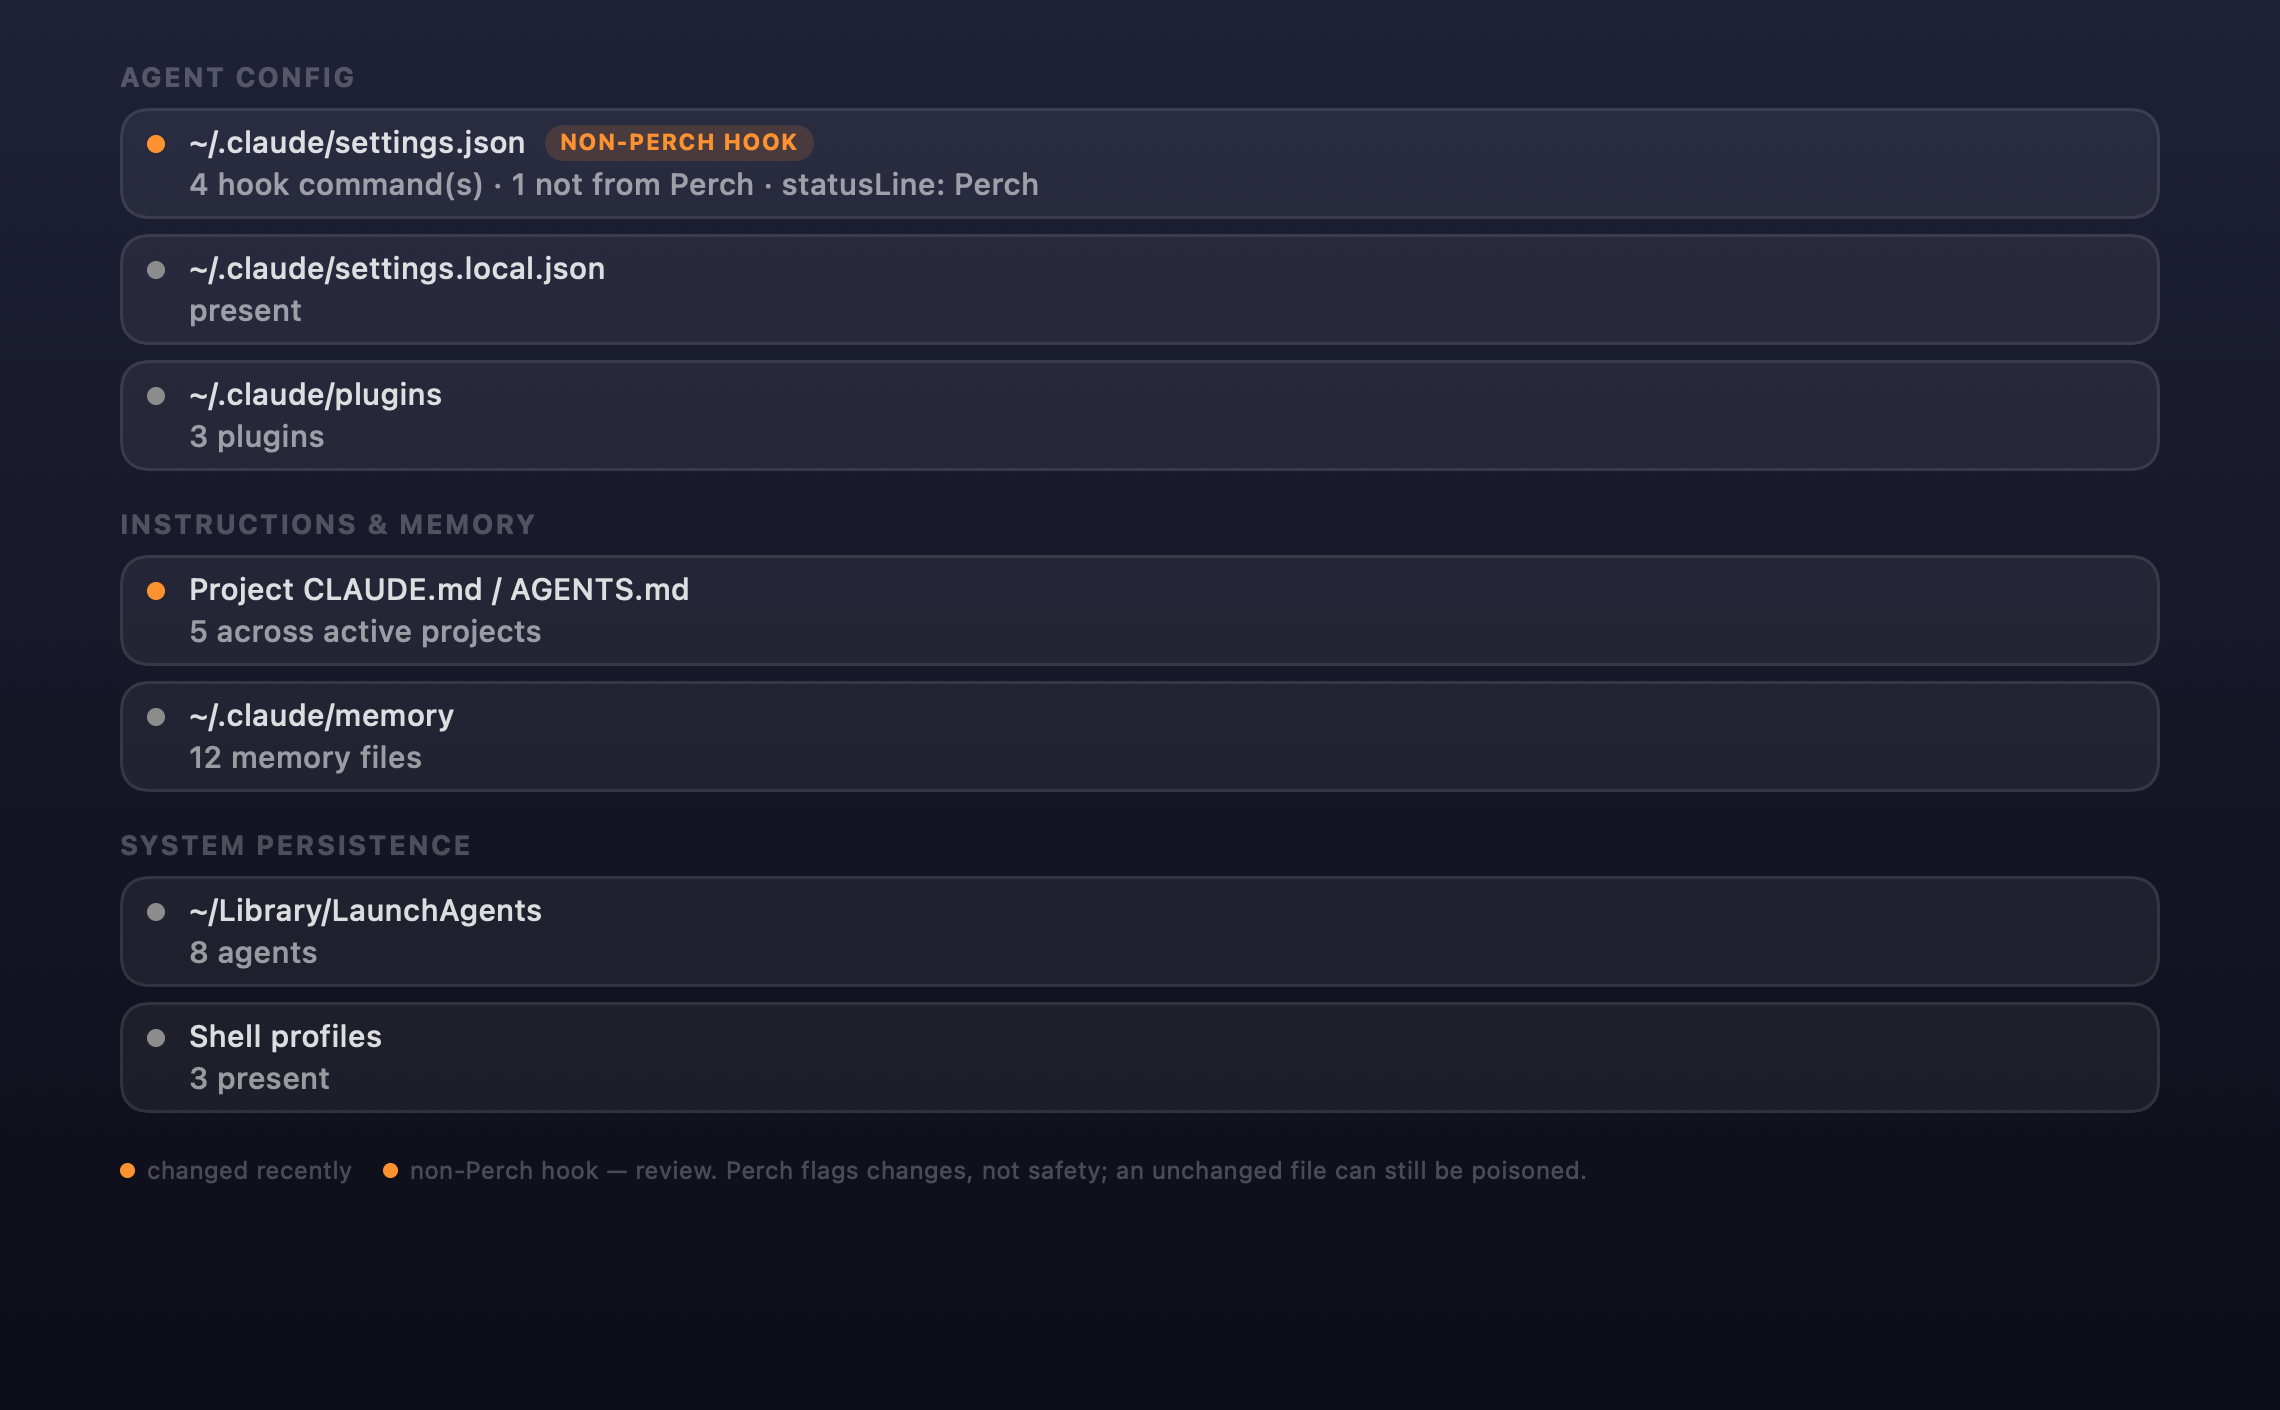
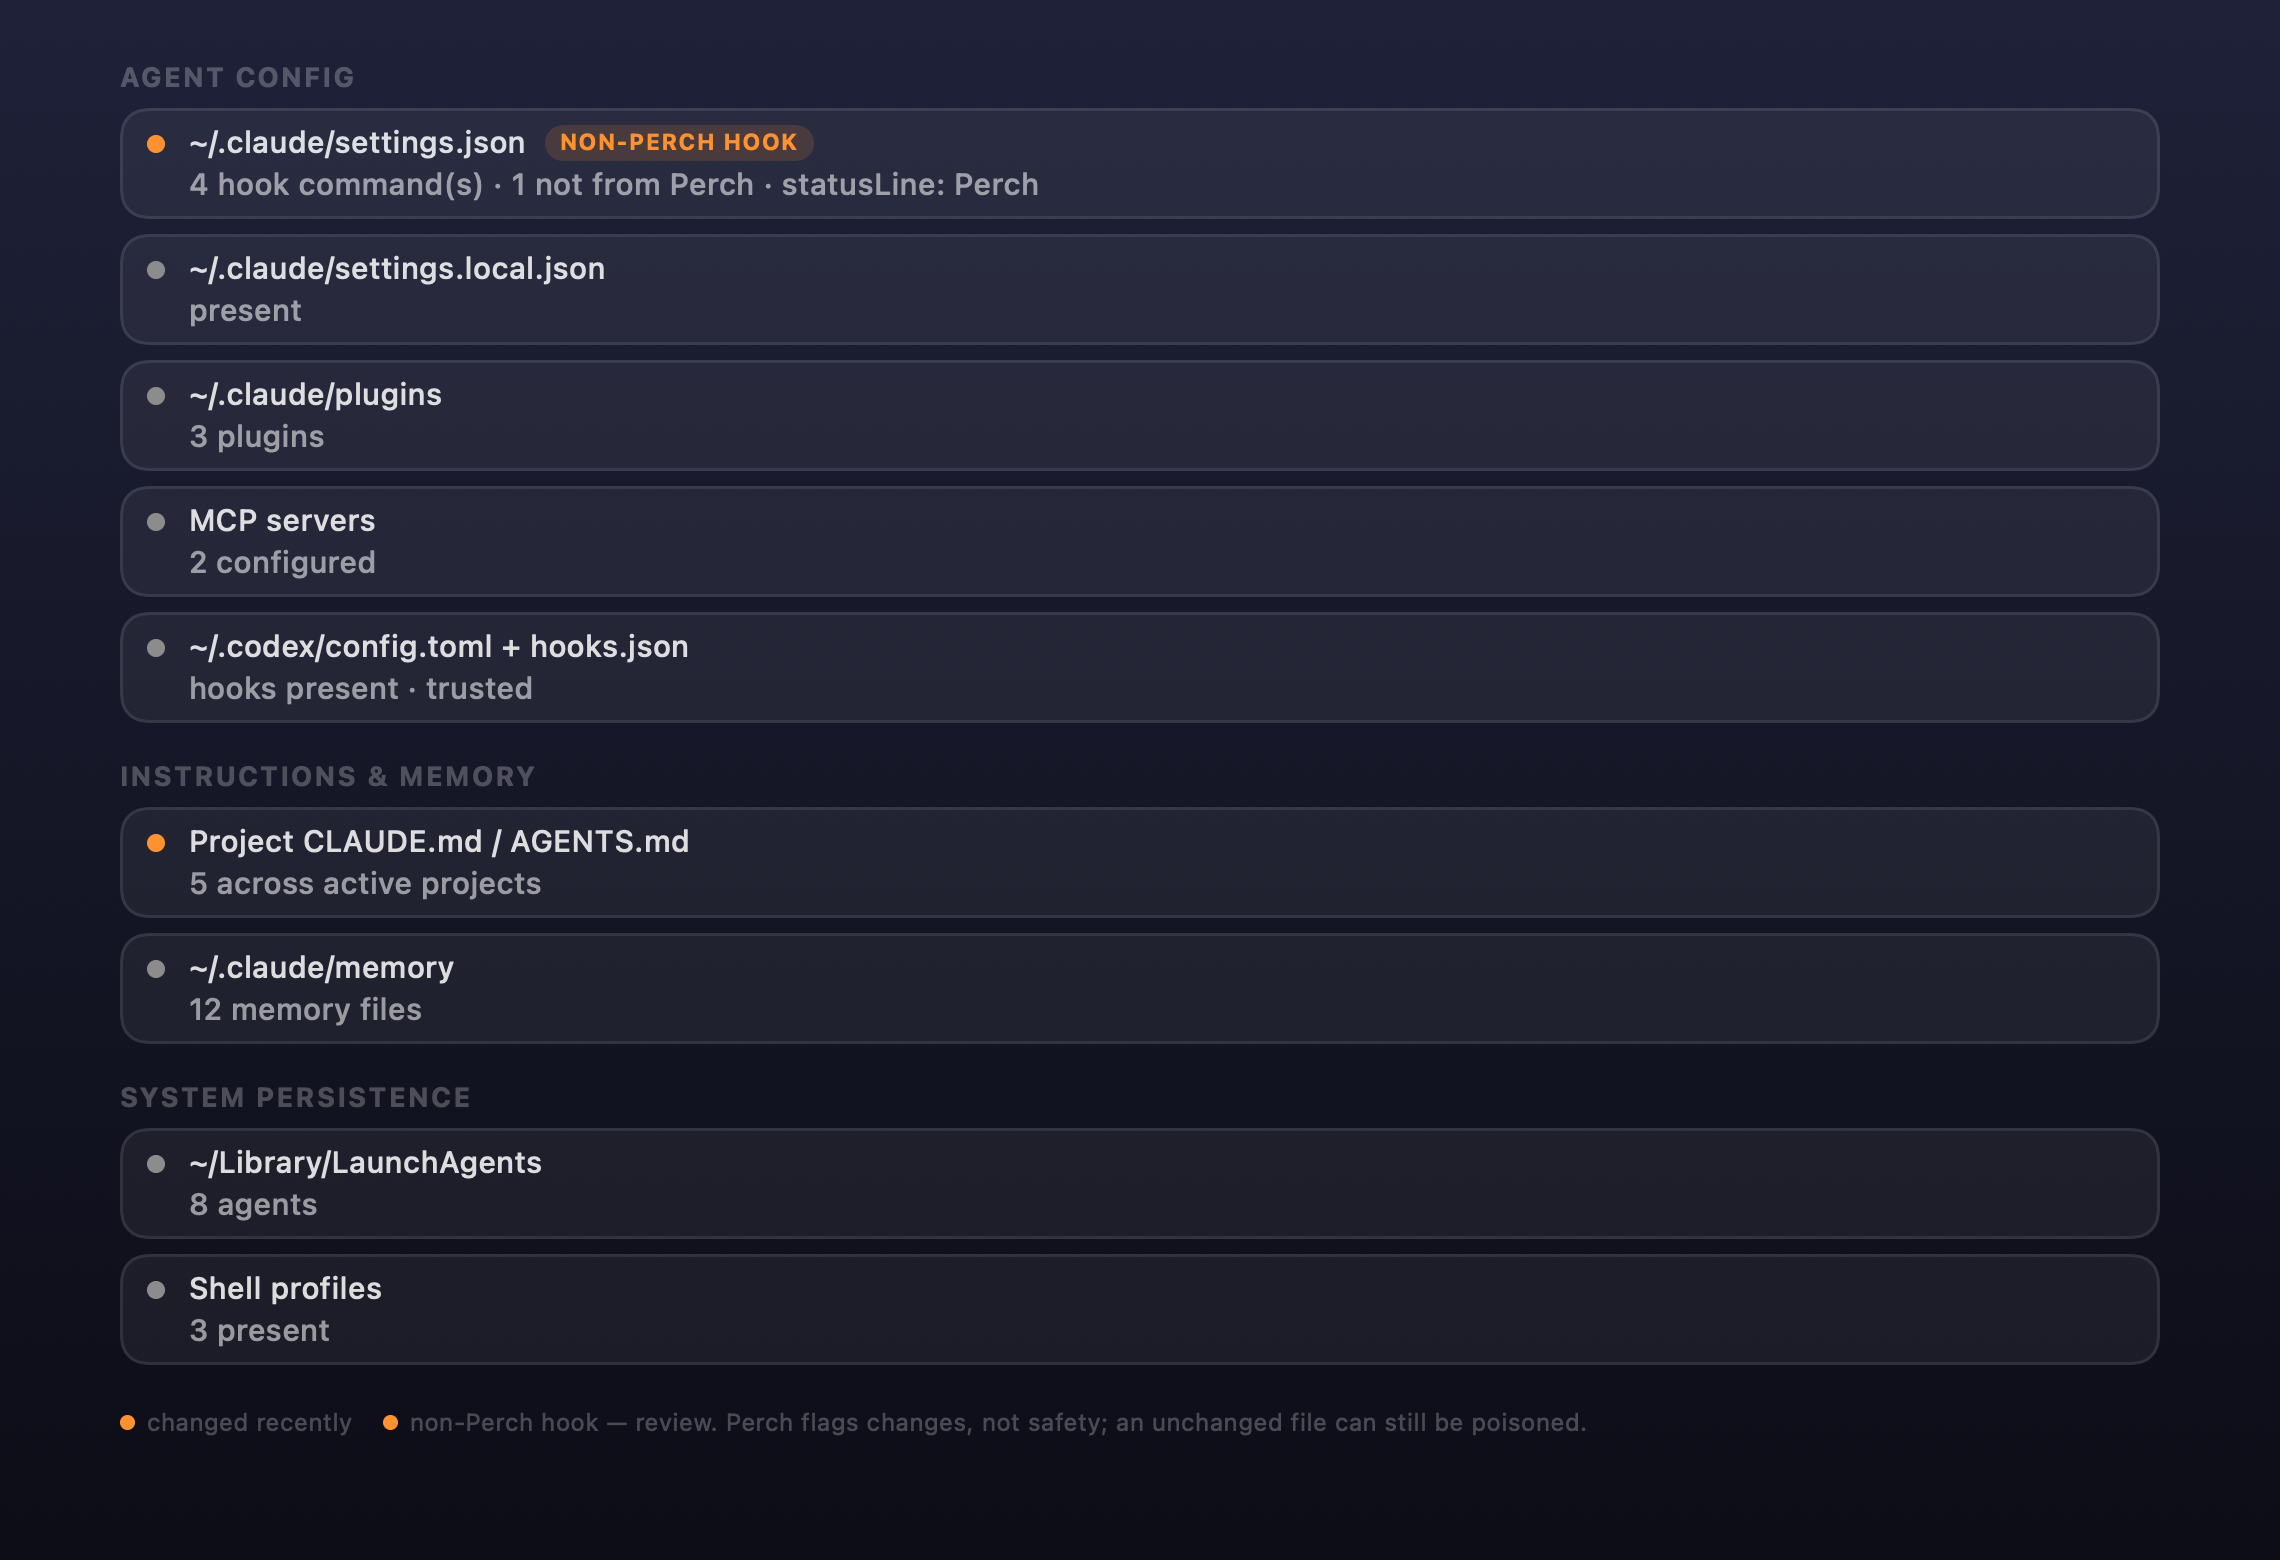
Add Insights showcase

diff --git a/Sources/Perch/UI/InsightsWindow.swift b/Sources/Perch/UI/InsightsWindow.swift
@@ -42,6 +42,7 @@ private struct InsightsTimelinePoint: Identifiable {
 
 struct InsightsView: View {
     @ObservedObject var model: InsightsModel
+    var renderStatic = false
 
     var body: some View {
         VStack(spacing: 0) {
@@ -75,18 +76,44 @@ struct InsightsView: View {
                     .controlSize(.small)
                     .accessibilityLabel("Loading Insights")
             }
-            Picker("Time range", selection: $model.selectedRange) {
-                ForEach(InsightsRange.allCases) { range in
-                    Text(range.rawValue)
-                        .tag(range)
-                        .accessibilityLabel(range.accessibilityLabel)
+            if renderStatic {
+                staticRangePicker
+            } else {
+                Picker("Time range", selection: $model.selectedRange) {
+                    ForEach(InsightsRange.allCases) { range in
+                        Text(range.rawValue)
+                            .tag(range)
+                            .accessibilityLabel(range.accessibilityLabel)
+                    }
                 }
+                .pickerStyle(.segmented)
+                .frame(width: 180)
             }
-            .pickerStyle(.segmented)
-            .frame(width: 180)
             Button("Refresh") { model.refresh() }
                 .disabled(model.state == .loading)
         }
+    }
+
+    /// ImageRenderer draws the AppKit-bridged segmented Picker as a missing-
+    /// view placeholder, so showcase renders draw this SwiftUI stand-in.
+    private var staticRangePicker: some View {
+        HStack(spacing: 2) {
+            ForEach(InsightsRange.allCases) { range in
+                Text(range.rawValue)
+                    .font(.system(size: 11, weight: .medium))
+                    .padding(.horizontal, 12)
+                    .padding(.vertical, 3)
+                    .background(
+                        RoundedRectangle(cornerRadius: 5, style: .continuous)
+                            .fill(range == model.selectedRange
+                                  ? Color.white.opacity(0.22)
+                                  : Color.clear))
+            }
+        }
+        .padding(2)
+        .background(
+            RoundedRectangle(cornerRadius: 7, style: .continuous)
+                .fill(Color.black.opacity(0.28)))
     }
 
     @ViewBuilder
@@ -94,22 +121,12 @@ struct InsightsView: View {
         if model.state == .unavailable {
             unavailableState
         } else if let snapshot = model.snapshot {
-            ScrollView {
-                VStack(alignment: .leading, spacing: 14) {
-                    summary(snapshot)
-                    timeline(snapshot)
-                    if snapshot.isEmpty {
-                        emptyState
-                    } else {
-                        findings(snapshot)
-                        HStack(alignment: .top, spacing: 14) {
-                            agents(snapshot)
-                            tools(snapshot)
-                        }
-                        sessions(snapshot)
-                    }
+            if renderStatic {
+                contentBody(snapshot)
+            } else {
+                ScrollView {
+                    contentBody(snapshot)
                 }
-                .padding(16)
             }
         } else {
             centeredState(
@@ -117,6 +134,24 @@ struct InsightsView: View {
                 title: "Loading local detections…",
                 detail: "Reading retained metadata from Perch’s local SQLite store.")
         }
+    }
+
+    private func contentBody(_ snapshot: DetectionInsightsSnapshot) -> some View {
+        VStack(alignment: .leading, spacing: 14) {
+            summary(snapshot)
+            timeline(snapshot)
+            if snapshot.isEmpty {
+                emptyState
+            } else {
+                findings(snapshot)
+                HStack(alignment: .top, spacing: 14) {
+                    agents(snapshot)
+                    tools(snapshot)
+                }
+                sessions(snapshot)
+            }
+        }
+        .padding(16)
     }
 
     private func summary(_ snapshot: DetectionInsightsSnapshot) -> some View {
@@ -325,17 +360,11 @@ struct InsightsView: View {
                 .font(.system(size: 11, design: .monospaced))
                 .lineLimit(1)
                 .truncationMode(.middle)
-            ScrollView(.horizontal, showsIndicators: false) {
-                HStack(spacing: 5) {
-                    ForEach(session.findings) { finding in
-                        Text("\(finding.code) ×\(finding.count)")
-                            .font(.system(size: 9, weight: .medium, design: .monospaced))
-                            .foregroundStyle(severityColor(finding.level))
-                            .padding(.horizontal, 6)
-                            .padding(.vertical, 3)
-                            .background(
-                                Capsule().fill(severityColor(finding.level).opacity(0.10)))
-                    }
+            if renderStatic {
+                findingChips(session)
+            } else {
+                ScrollView(.horizontal, showsIndicators: false) {
+                    findingChips(session)
                 }
             }
         }
@@ -345,6 +374,20 @@ struct InsightsView: View {
             "\(session.agent.insightsDisplayName) session \(session.sessionID), "
                 + "\(session.detectionCount) detections, "
                 + "highest severity \(session.highestLevel.label)")
+    }
+
+    private func findingChips(_ session: DetectionSessionAggregate) -> some View {
+        HStack(spacing: 5) {
+            ForEach(session.findings) { finding in
+                Text("\(finding.code) ×\(finding.count)")
+                    .font(.system(size: 9, weight: .medium, design: .monospaced))
+                    .foregroundStyle(severityColor(finding.level))
+                    .padding(.horizontal, 6)
+                    .padding(.vertical, 3)
+                    .background(
+                        Capsule().fill(severityColor(finding.level).opacity(0.10)))
+            }
+        }
     }
 
     private var emptyState: some View {

diff --git a/Sources/Perch/App/ShowcaseRenderer.swift b/Sources/Perch/App/ShowcaseRenderer.swift
@@ -13,6 +13,7 @@ enum ShowcaseRenderer {
         try renderIntegrity(to: dir.appendingPathComponent("integrity.png"))
         try renderUsage(to: dir.appendingPathComponent("usage.png"))
         try renderWorktrees(to: dir.appendingPathComponent("worktrees.png"))
+        try renderInsights(to: dir.appendingPathComponent("insights.png"))
     }
 
     /// Synthetic worktree audit covering all four tiers.
@@ -70,6 +71,10 @@ enum ShowcaseRenderer {
                           detail: "present", lastModified: nil, status: .unchanged),
             IntegrityItem(id: "pl", category: .agentConfig, label: "~/.claude/plugins",
                           detail: "3 plugins", lastModified: nil, status: .unchanged),
+            IntegrityItem(id: "mcp", category: .agentConfig, label: "MCP servers",
+                          detail: "2 configured", lastModified: nil, status: .unchanged),
+            IntegrityItem(id: "cx", category: .agentConfig, label: "~/.codex/config.toml + hooks.json",
+                          detail: "hooks present · trusted", lastModified: nil, status: .unchanged),
             IntegrityItem(id: "cm", category: .memory, label: "Project CLAUDE.md / AGENTS.md",
                           detail: "5 across active projects", lastModified: nil, status: .changedRecently),
             IntegrityItem(id: "mem", category: .memory, label: "~/.claude/memory",
@@ -84,11 +89,11 @@ enum ShowcaseRenderer {
     private static func renderIntegrity(to url: URL) throws {
         let model = IntegrityModel()
         model.injectSnapshot(demoIntegritySnapshot())
-        // All showcase shots share a 760pt output width so galleries can
-        // display them at one uniform size without per-image caps.
-        let size = CGSize(width: 720, height: 430)
+        // Canvas matches the worktrees shot exactly (760x520 with margins) so
+        // the two sit in one gallery row at equal height and column width.
+        let size = CGSize(width: 720, height: 480)
         let view = IntegrityView(model: model, renderStatic: true)
-            .frame(width: 680, height: 390, alignment: .top)
+            .frame(width: 680, height: 440, alignment: .top)
             .frame(width: size.width, height: size.height, alignment: .top)
             .padding(20)
             .background(
@@ -228,6 +233,57 @@ enum ShowcaseRenderer {
                 LinearGradient(colors: [Color(red: 0.12, green: 0.13, blue: 0.22),
                                         Color(red: 0.05, green: 0.05, blue: 0.09)],
                                startPoint: .top, endPoint: .bottom))
+            .environment(\.colorScheme, .dark)
+
+        try writePNG(view, size: size, to: url)
+    }
+
+    // MARK: - Insights window
+
+    /// Synthetic past-24h detection metadata: a burst on the api-server
+    /// session, an older Codex credential read, and background cautions —
+    /// aggregated through the real Insights pipeline so buckets, ordering,
+    /// and labels match what the window computes from SQLite.
+    static func demoInsightsSnapshot(now: Date = Date()) -> DetectionInsightsSnapshot {
+        func row(_ eventID: String, _ hoursAgo: Double, _ agent: AgentKind,
+                 _ session: String, _ tool: String, _ risk: RiskLevel,
+                 _ code: String, _ level: RiskLevel) -> DetectionInsightsSourceRow {
+            DetectionInsightsSourceRow(
+                eventID: eventID,
+                observedAt: now.addingTimeInterval(-hoursAgo * 3600),
+                agent: agent, sessionID: session, toolName: tool,
+                riskLevel: risk, findingCode: code, findingLevel: level)
+        }
+        let api = "0f47a2c9-8f4e-4f6a-b0d3-2d9c51e7aa41"
+        let data = "5a19e7d4-63bb-4c21-9e5a-0c7f4b8812df"
+        let rows = [
+            row("e1", 1.4, .claude, api, "Bash", .danger, "pipe-to-shell", .danger),
+            row("e1", 1.4, .claude, api, "Bash", .danger, "privilege-escalation", .danger),
+            row("e2", 1.6, .claude, api, "Bash", .caution, "force-push", .caution),
+            row("e3", 4.5, .claude, api, "Edit", .caution, "memory-pollution", .caution),
+            row("e4", 8.2, .claude, api, "Bash", .caution, "destructive-delete", .caution),
+            row("e5", 12.3, .codex, data, "shell", .danger, "credential-access", .danger),
+            row("e6", 12.8, .codex, data, "shell", .caution, "insecure-url", .caution),
+            row("e7", 21.5, .codex, data, "shell", .caution, "destructive-delete", .caution),
+        ]
+        return DetectionInsightsSnapshot.aggregate(
+            rows: rows, range: .hours24, now: now, calendar: Calendar.current)
+    }
+
+    private static func renderInsights(to url: URL) throws {
+        // The store is never opened: injectSnapshot short-circuits refresh(),
+        // so this render touches no SQLite file.
+        let model = InsightsModel(store: DetectionStore())
+        model.injectSnapshot(demoInsightsSnapshot())
+
+        // Width is chosen so the aspect ratio equals the usage shot's
+        // (760x780): the two share a gallery row at equal height and column
+        // width. The window is resizable in the app, so the wide layout is
+        // exactly what a user would see.
+        let size = CGSize(width: 1091, height: 1120)
+        let view = InsightsView(model: model, renderStatic: true)
+            .frame(width: size.width, height: size.height, alignment: .top)
+            .background(Color(nsColor: .windowBackgroundColor))
             .environment(\.colorScheme, .dark)
 
         try writePNG(view, size: size, to: url)

diff --git a/Sources/Perch/Model/DetectionInsights.swift b/Sources/Perch/Model/DetectionInsights.swift
@@ -419,6 +419,13 @@ final class InsightsModel: ObservableObject {
         self.store = store
     }
 
+    /// Showcase support: adopt a prebuilt snapshot without touching the store.
+    func injectSnapshot(_ snap: DetectionInsightsSnapshot) {
+        generation += 1  // invalidate any in-flight refresh
+        snapshot = snap
+        state = .loaded
+    }
+
     func refresh(now: Date = Date()) {
         generation += 1
         let requestGeneration = generation

diff --git a/README.md b/README.md
@@ -65,9 +65,11 @@ and what they've **left behind**:
 | 🪶 **Zero footprint** | No third-party dependencies or telemetry, and an auditable all-Swift codebase using macOS's system SQLite for minimal local detection metadata. If Perch dies, your agents don't even notice. |
 
 <details>
-<summary><b>🧭 Footholds · 🌳 Worktrees · 📊 token dashboard screenshots</b></summary>
+<summary><b>🧭 Footholds · 🔎 Insights · 🌳 Worktrees · 📊 token dashboard screenshots</b></summary>
 <div align="center">
 <img src="docs/img/integrity.png" width="560" alt="Footholds page: agent-config, instructions/memory, and system-persistence surfaces with per-item state — a non-Perch hook in settings.json, recently-changed project CLAUDE.md files, LaunchAgents and shell profiles">
+<br><br>
+<img src="docs/img/insights.png" width="640" alt="Insights window: caution and danger totals, a 24-hour stacked detection timeline, findings by stable code, detections by agent and tool, and per-session finding clusters — read locally from the metadata-only detection store">
 <br><br>
 <img src="docs/img/worktrees.png" width="640" alt="Worktrees window: summary tiles for count, total size, and reclaimable bytes; per-project rows with reclaimable / review / active / orphaned tier badges, dirty-file and commits-ahead notes, and a Copy cleanup commands button — read-only, Perch never deletes">
 <br><br>